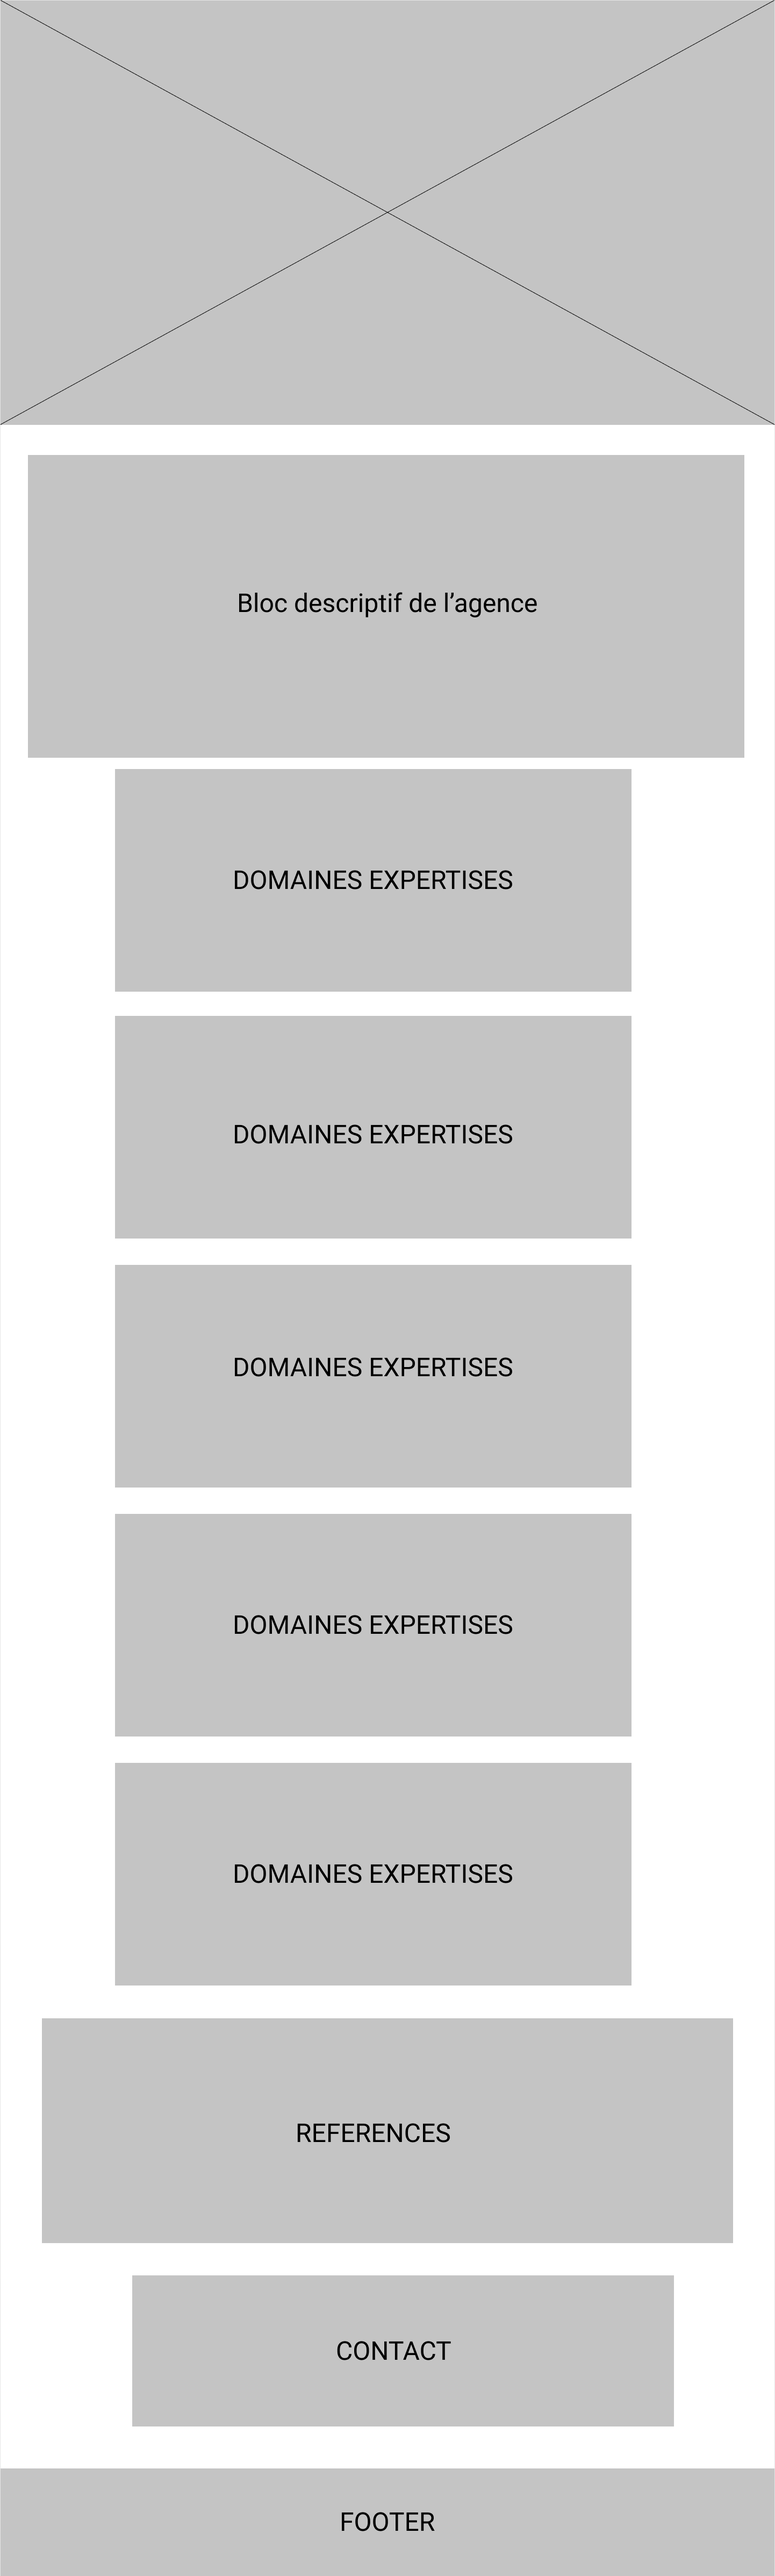
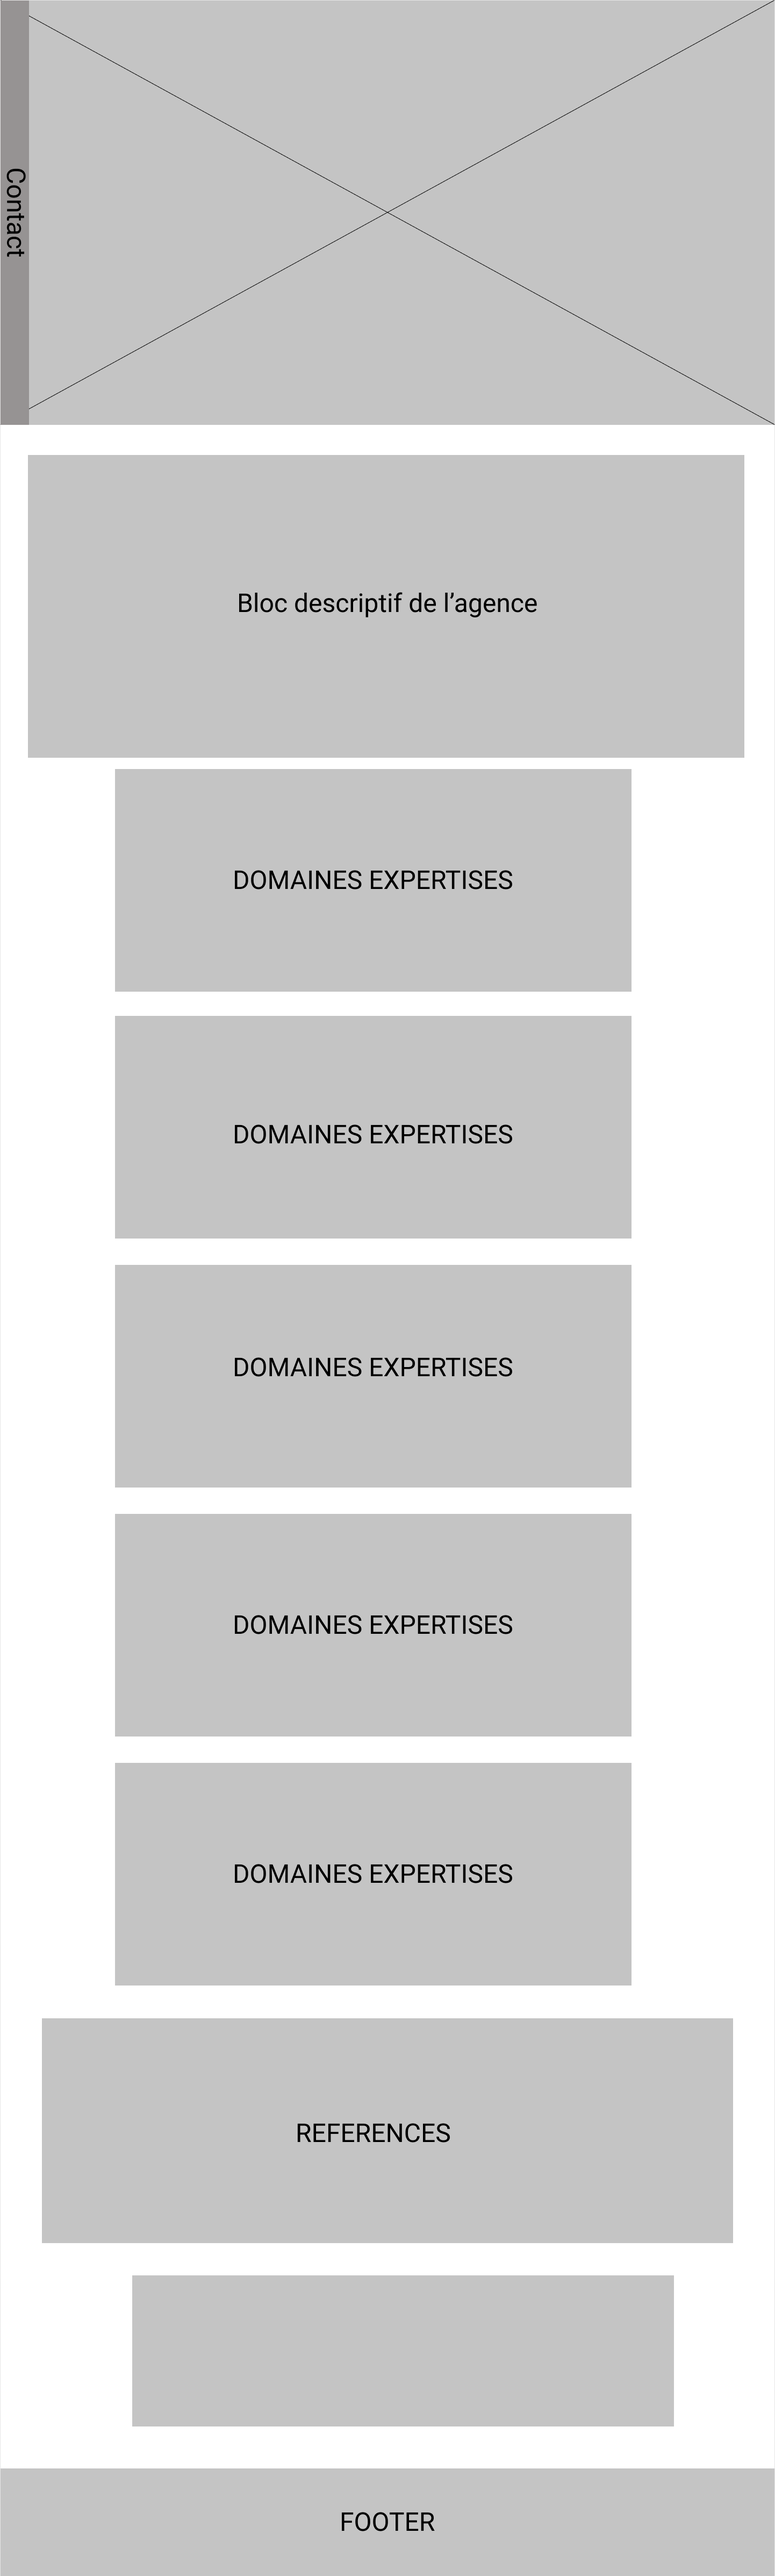
update maquette

Changed region(s): [[0.0, 0.0, 0.0624, 0.1866], [0.4681, 0.9021, 0.4993, 0.9332]]

diff --git a/styles/style.css b/styles/style.css
@@ -105,6 +105,7 @@ header .header_description ion-icon {
   }
   50% {
     color: white;
+    margin-top: 10%;
   }
   100% {
     color: gray;
@@ -117,6 +118,7 @@ header .header_description ion-icon {
   }
   50% {
     color: white;
+    margin-top: 10%;
   }
   100% {
     color: gray;
@@ -276,6 +278,14 @@ header .header_description ion-icon {
       -ms-flex-direction: column;
           flex-direction: column;
   width: 30%;
+  margin-left: 50%;
+  -webkit-transform: translate(-50%);
+          transform: translate(-50%);
+  margin-bottom: 1%;
+}
+
+#formulaire #div_contact button {
+  width: 100px;
   margin-left: 50%;
   -webkit-transform: translate(-50%);
           transform: translate(-50%);
@@ -443,6 +453,56 @@ footer img {
   }
   #moi .moi_description {
     font-style: italic;
+  }
+  .header_description {
+    position: absolute;
+    top: 50%;
+    left: 50%;
+    color: white;
+    -webkit-transform: translate(-50%, -50%);
+            transform: translate(-50%, -50%);
+    text-align: center;
+  }
+  .header_description img {
+    width: 20%;
+    border-radius: 50%;
+  }
+  .header_description h1, .header_description h2 {
+    font-size: 100%;
+  }
+  .header_description ion-icon {
+    font-size: 50%;
+    color: white;
+    -webkit-animation-name: blink;
+            animation-name: blink;
+    -webkit-animation-duration: 1s;
+            animation-duration: 1s;
+    -webkit-animation-iteration-count: infinite;
+            animation-iteration-count: infinite;
+  }
+  @-webkit-keyframes blink {
+    0% {
+      color: gray;
+    }
+    50% {
+      color: white;
+      margin-top: 10%;
+    }
+    100% {
+      color: gray;
+    }
+  }
+  @keyframes blink {
+    0% {
+      color: gray;
+    }
+    50% {
+      color: white;
+      margin-top: 10%;
+    }
+    100% {
+      color: gray;
+    }
   }
 }
 /*# sourceMappingURL=style.css.map */

diff --git a/styles/style.scss b/styles/style.scss
@@ -82,7 +82,7 @@ header{
 }
 @keyframes blink {
     0%{ color:gray}
-    50%{color:white}
+    50%{color:white;margin-top:10%;}
     100%{color:gray}
 }
 .contact_border{
@@ -205,6 +205,12 @@ header{
         width:30%;
         margin-left:50%;
         transform:translate(-50%);
+        margin-bottom:1%;
+        button{
+            width:100px;
+            margin-left:50%;
+        transform:translate(-50%);
+        }
     }
     
 
@@ -348,5 +354,34 @@ footer{
         .moi_description{
             font-style:italic;
         }
+    }
+    .header_description{
+        position:absolute;
+        top:50%;
+        left:50%;
+        color:white;
+        transform: translate(-50%,-50%);
+        text-align:center;
+        img{
+            width:20%;
+            border-radius:50%;
+        }
+        h1,h2{
+            font-size:100%;
+        }
+        ion-icon{
+            font-size:50%;
+            color: white;
+            animation-name: blink;
+            animation-duration: 1s; 
+            animation-iteration-count:infinite;
+        }
+    }
+    
+    
+    @keyframes blink {
+        0%{ color:gray}
+        50%{color:white;margin-top:10%;}
+        100%{color:gray}
     }
 }

diff --git a/script/script.js b/script/script.js
@@ -68,7 +68,7 @@ function toggle_f(){
         ion_icon[4].style.color = "black";
         domaines.style.color="black";
         presentation.style.color = "black";
-        document.body.style.backgroundColor="white";
+        document.body.style.backgroundColor="#F8FAFB";
         localStorage.setItem('modenuit', 'jour');
 
     }

diff --git a/index.html b/index.html
@@ -6,6 +6,7 @@
     <meta http-equiv="X-UA-Compatible" content="ie=edge">
     <title>Agence Web</title>
     <link rel="stylesheet" href="./styles/style.css">
+    <link rel="icon" href="/media/avatar-32920-2d18dc0.ico" />
 </head>
 <body>
 
